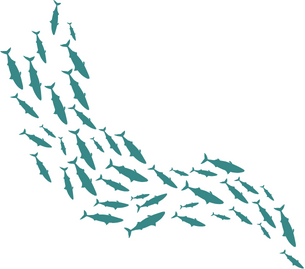
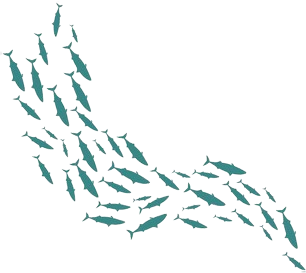
ikan timline

Changed region(s): [[0.0, 0.0, 1.0, 1.0]]

diff --git a/src/components/Timeline.jsx b/src/components/Timeline.jsx
@@ -1,6 +1,8 @@
 import navbarIcons from "../assets/navbarIcons.png";
 import { useState, useEffect } from "react";
 import { Link, animateScroll as scroll } from "react-scroll";
+import fishesImg from "../assets/fishes.png";
+
 
 const Timeline = () => {
   return (
@@ -13,6 +15,11 @@ const Timeline = () => {
         ></path>
       </svg>
       <section id="timeline" class="bg-gradient-to-b from-[#75b8fa] to-[#0D839E] to-90% ">
+      <img
+          src={fishesImg}
+          alt=""
+          className="absolute right-0 h-52 rotate-90"
+        />
         <div
           class="mx-auto max-w-screen-xl "
           data-aos="zoom-in"

diff --git a/src/components/LatarBelakang.jsx b/src/components/LatarBelakang.jsx
@@ -1,9 +1,5 @@
 import { useRef, useEffect } from "react";
-import Title from "./Title";
-import rayImg from "../assets/ikan-pari.png";
 import fishesImg from "../assets/fishes.png";
-import turtleImg from "../assets/penyu.png";
-import jellyfishImg from "../assets/ubur.png";
 
 export default function LatarBelakang() {
   return (
